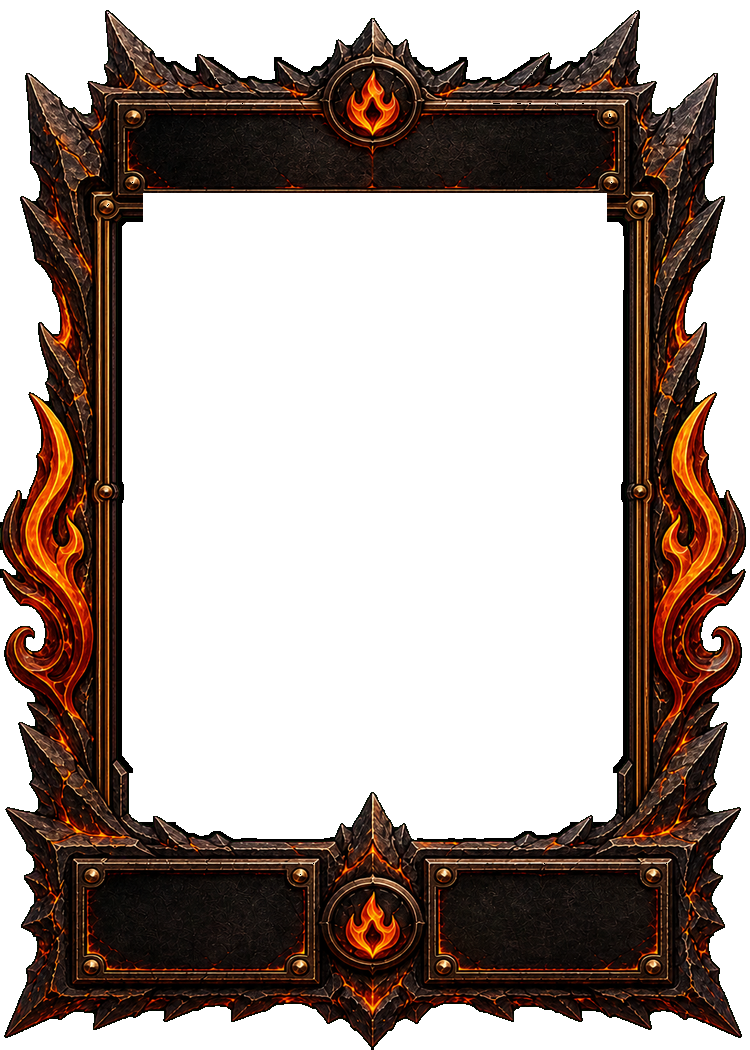
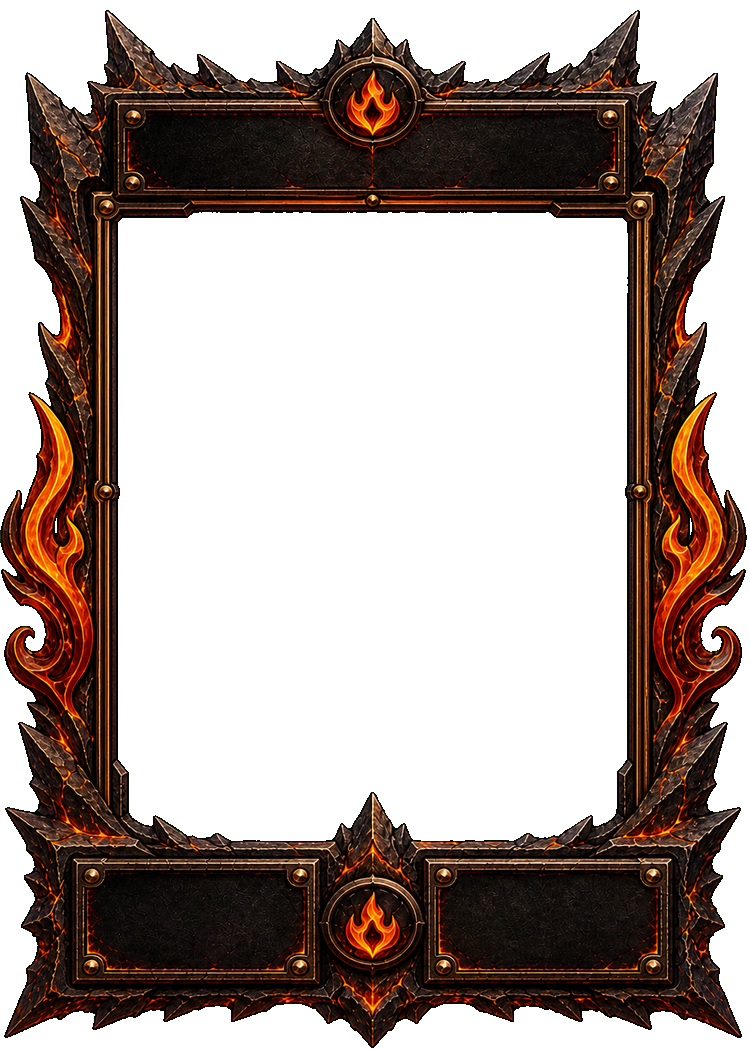
Fix bezel being eaten by rectangular art-hole wipes
Stop hard-clearing a layout inset rectangle through rivets/inner chrome.
Key only the detected green-screen art hole so the ornate top bezel stays
intact over the checker underlay.

diff --git a/frames/export_layers.py b/frames/export_layers.py
@@ -158,6 +158,13 @@ def split_layers(frame_rgba: Image.Image, layout: dict[str, Any]) -> dict[str, I
     return {k: Image.fromarray(v, "RGBA") for k, v in layers.items()}
 
 
+def harden_opaque_alpha(img: Image.Image) -> Image.Image:
+    """Force surviving frame pixels to full opacity so underlays cannot show through."""
+    arr = np.array(img.convert("RGBA"))
+    arr[arr[:, :, 3] > 0, 3] = 255
+    return Image.fromarray(arr, "RGBA")
+
+
 def compose_layers(layer_imgs: dict[str, Image.Image], layout: dict[str, Any]) -> Image.Image:
     w, h = layout["canvas"]["width"], layout["canvas"]["height"]
     comp = Image.new("RGBA", (w, h), (0, 0, 0, 0))
@@ -167,7 +174,7 @@ def compose_layers(layer_imgs: dict[str, Image.Image], layout: dict[str, Any]) -
             if layer.size != (w, h):
                 layer = layer.resize((w, h), Image.Resampling.LANCZOS)
             comp = Image.alpha_composite(comp, layer)
-    return comp
+    return harden_opaque_alpha(comp)
 
 
 def export_pack(
@@ -180,10 +187,10 @@ def export_pack(
     layers_dir = out_dir / "layers"
     layers_dir.mkdir(exist_ok=True)
 
-    # Only clear empty fill (green/white). Never hard-wipe the art rect.
+    # Only clear empty fill (green/white). Never hard-wipe the art rect —
+    # ornate bezels often sit inside layout art_window coordinates.
     punched = punch_art_hole(frame_rgba, layout, preserve_frame_detail=True)
-    punched_arr = clear_outside_silhouette(np.array(punched))
-    punched = Image.fromarray(punched_arr, "RGBA")
+    punched = harden_opaque_alpha(Image.fromarray(clear_outside_silhouette(np.array(punched)), "RGBA"))
 
     layer_imgs = split_layers(punched, layout)
     for name, img in layer_imgs.items():
